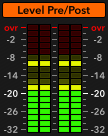
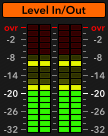
skin: change label of level meters

Changed region(s): [[0.1667, 0.0294, 0.8333, 0.1176]]

diff --git a/doc/squeezer.tex b/doc/squeezer.tex
@@ -779,7 +779,7 @@ the license's website in your web browser \dots
 \chapter{Meters}
 \label{chap:meters}
 
-\section{Level meters}
+\section{Input and output level}
 
 \begin{wrapfigure}{r}{0.19\linewidth}
 \includegraphics[scale=0.58,clip]{include/images/meter_levels.png}
@@ -794,7 +794,7 @@ The average level meter reaches \SI{99}{\percent} of the final reading
 in \SI{300}{\milli\second}, whereas the peak level meter has a rise
 time of one sample and a fall time of \SI{8.67}{\dB\per\second}.
 
-\section{Gain reduction meter}
+\section{Gain reduction}
 
 \begin{wrapfigure}{r}{0.13\linewidth}
 \includegraphics[scale=0.58,clip]{include/images/meter_gain_reduction.png}
